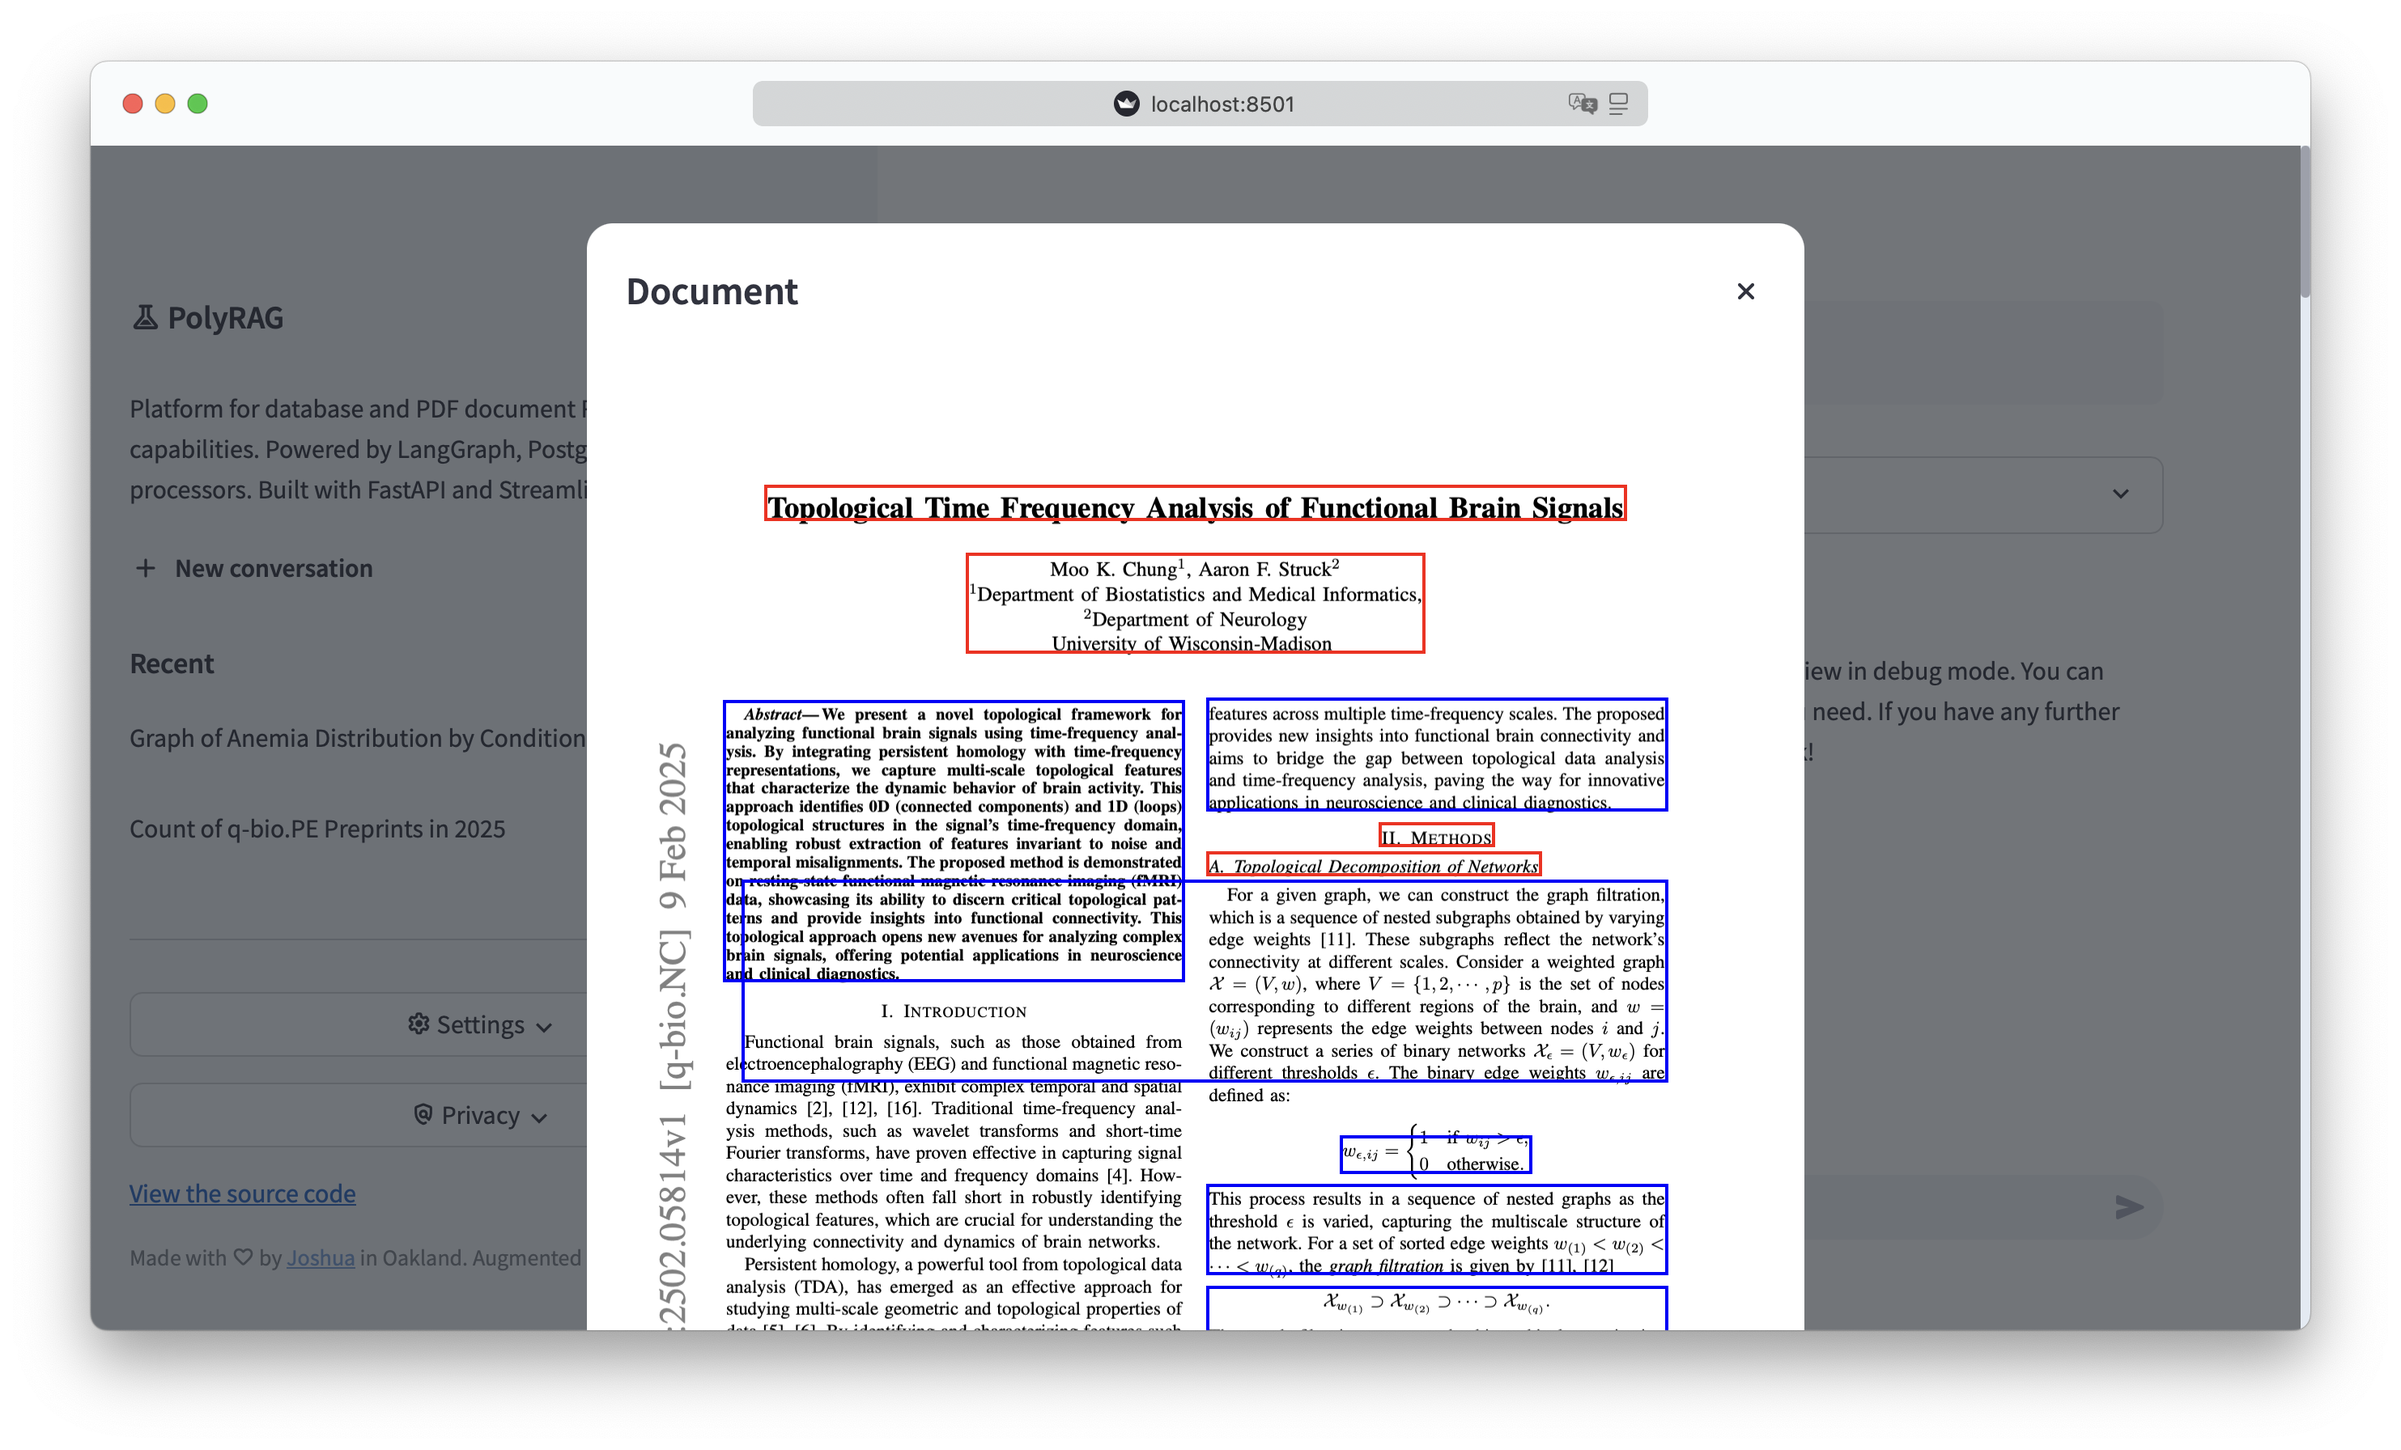
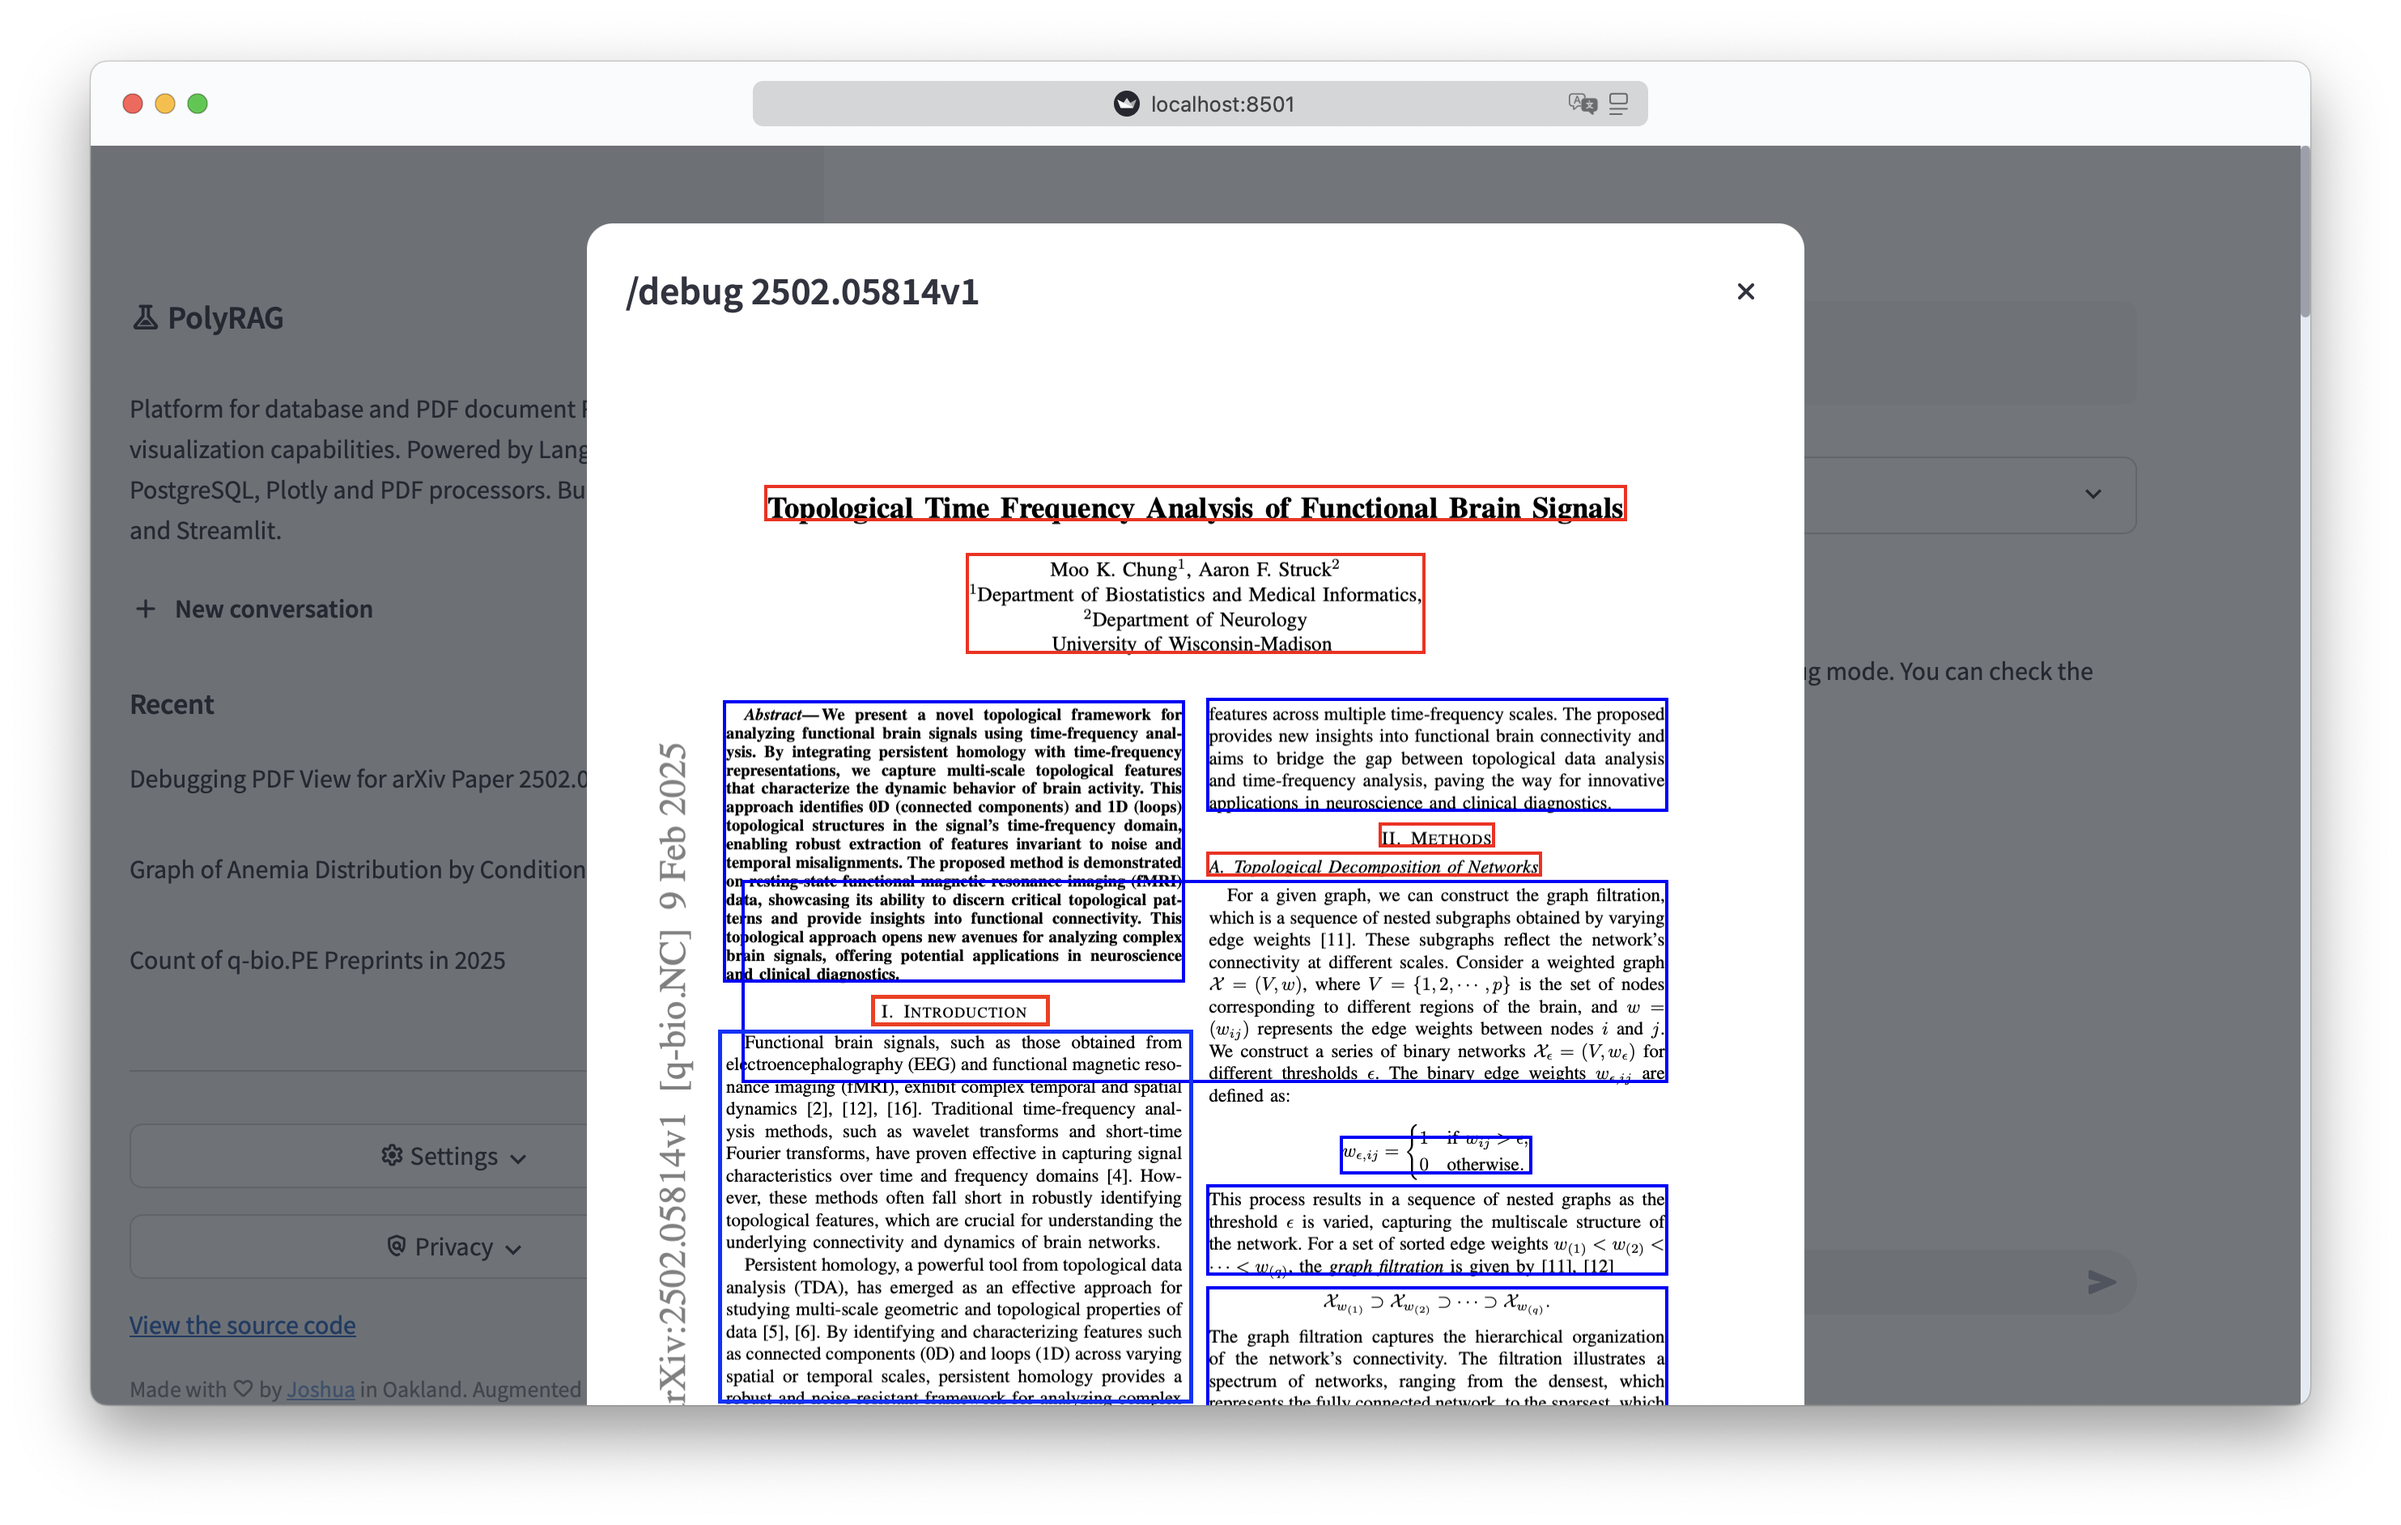
enhance PDF viewer functionality with debug mode and update README with example

diff --git a/src/streamlit_app.py b/src/streamlit_app.py
@@ -24,42 +24,41 @@ APP_ICON = ":material/experiment:"
 AI_ICON = ":material/flare:"
 USER_ICON = ":material/person:"
 
-# Initialize session state for PDF viewing
-if "pdf_to_view" not in st.session_state:
-    st.session_state.pdf_to_view = None 
-if "annotations" not in st.session_state:
-    st.session_state.annotations = None
-if "confirming_delete_thread_id" not in st.session_state:
-    st.session_state.confirming_delete_thread_id = None
-if "graphs" not in st.session_state:
-    st.session_state.graphs = {}
 
-# Function to set which PDF should be displayed
-def view_pdf(pdf_to_view, annotations=None):
+st.session_state.pdf_to_view = st.session_state.get("pdf_to_view", None)
+st.session_state.annotations = st.session_state.get("annotations", None)
+st.session_state.debug_viewer = st.session_state.get("debug_viewer", False)
+st.session_state.confirming_delete_thread_id = st.session_state.get("confirming_delete_thread_id", None)
+st.session_state.graphs = st.session_state.get("graphs", {})
+
+
+def view_pdf(pdf_to_view, annotations=None, debug_viewer=False):
     st.session_state.pdf_to_view = pdf_to_view
     st.session_state.annotations = annotations
+    st.session_state.debug_viewer = debug_viewer
     if not st.session_state.get("in_pdf_dialog", False):
         st.session_state.in_pdf_dialog = True
         st.rerun()
 
-
-@st.dialog("Document", width="large")
+dialog_title = "Document" if not st.session_state.debug_viewer else "/debug" + ' ' + str(st.session_state.pdf_to_view)
+@st.dialog(dialog_title, width="large")
 def pdf_dialog():
     """Displays the selected PDF using the new display_pdf function."""
     st.session_state.in_pdf_dialog = True
     
     pdf_name = st.session_state.pdf_to_view
     annotations = st.session_state.annotations
-
+    debug_viewer = st.session_state.get("debug_viewer", False)
     if pdf_name:
-        display_pdf(document_name=pdf_name, annotations=annotations)
+        display_pdf(document_name=pdf_name, annotations=annotations, debug_viewer=debug_viewer)
     else:
         st.error("No PDF selected for viewing.")
+        
+    st.session_state.pdf_to_view = None
+    st.session_state.annotations = None
+    st.session_state.in_pdf_dialog = False
 
     if st.button("Close"):
-        st.session_state.pdf_to_view = None
-        st.session_state.annotations = None
-        st.session_state.in_pdf_dialog = False
         st.rerun()
 
 async def main() -> None:
@@ -76,18 +75,6 @@ async def main() -> None:
         st.session_state.suggested_command = None
     user_text = None
 
-    # Hide the streamlit upper-right chrome
-    st.html(
-        """
-        <style>
-        [data-testid="stStatusWidget"] {
-                visibility: hidden;
-                height: 0%;
-                position: fixed;
-            }
-        </style>
-        """,
-    )
     if st.get_option("client.toolbarMode") != "minimal":
         st.set_option("client.toolbarMode", "minimal")
         await asyncio.sleep(0.1)
@@ -538,8 +525,10 @@ async def draw_messages(
                                     tool_output = json.loads(tool_result.content)
                                     pdf_name = tool_output['pdf_file']
                                     block_indices = tool_output['block_indices']
+                                    debug_viewer = tool_output.get('debug', False)
                                     if tool_output.get('debug', False):
                                         annotations = rag_system.debug_blocks(pdf_file=pdf_name)
+                                        print(f"Debugging blocks for {pdf_name}: {len(annotations)} blocks")
                                     else:
                                         annotations = rag_system.get_annotations_by_indices(
                                             pdf_file=pdf_name,
@@ -547,7 +536,7 @@ async def draw_messages(
                                         )            
                                     st.session_state.pdf_documents[pdf_name] = annotations                                    
                                     if st.button(f"View PDF: {pdf_name}", key=f"pdf_button_{tool_result.tool_call_id}"):
-                                        view_pdf(pdf_name, annotations)
+                                        view_pdf(pdf_name, annotations, debug_viewer=debug_viewer)
                                         
                                     status.update(state="complete", label=f"PDF ready: {pdf_name}")
                                 except Exception as e:

diff --git a/src/pdf_viewer_with_annotations.py b/src/pdf_viewer_with_annotations.py
@@ -52,12 +52,11 @@ def get_pdf_content(document_name: str) -> Optional[bytes]:
     print(f"Successfully retrieved PDF content for: {document_name}")
     return pdf_content
 
-def display_pdf(document_name: str, annotations: Optional[List[Dict[str, Any]]] = None):
+def display_pdf(document_name: str, annotations: Optional[List[Dict[str, Any]]] = None, debug_viewer: bool = False) -> None:
     pdf_content = get_pdf_content(document_name)
 
     if pdf_content:
         try:
-            print(annotations)
             pdf_viewer(input=pdf_content, annotations=annotations, render_text=True, annotation_outline_size=2)
             print(f"Successfully rendered PDF display for: {document_name}")
         except Exception as e:

diff --git a/README.md b/README.md
@@ -13,10 +13,13 @@ PolyRAG extends the original [Agent Service Toolkit](https://github.com/JoshuaC2
 ## Features
 
 - **Advanced RAG Agent:** Handles complex interactions involving database querying, document analysis, and visualization
+
+![Example](src/example.png)
+
 - **Database RAG:** 
   - Dynamically discovers PostgreSQL database schemas
   - Generates tailored prompts for the LLM
-  - Enables SQL querying via the `execute_sql` tool
+  - Enables secure SQL querying via the `execute_sql` tool
   
 - **Document RAG:** Two configurable backends:
   - **`nlm-ingestor` (Recommended):** Preserves document hierarchy for better context understanding
@@ -102,7 +105,7 @@ client = AgentClient() # Assumes service running locally
 
 # Ask the RAG agent a question
 response = client.invoke(
-    "What are the main risks mentioned in document INSSN-LYO-2023-0461?",
+    "What are the main risks mentioned in document 2503_01910 v1?",
     agent="pg_rag_assistant"
 )
 response.pretty_print()
